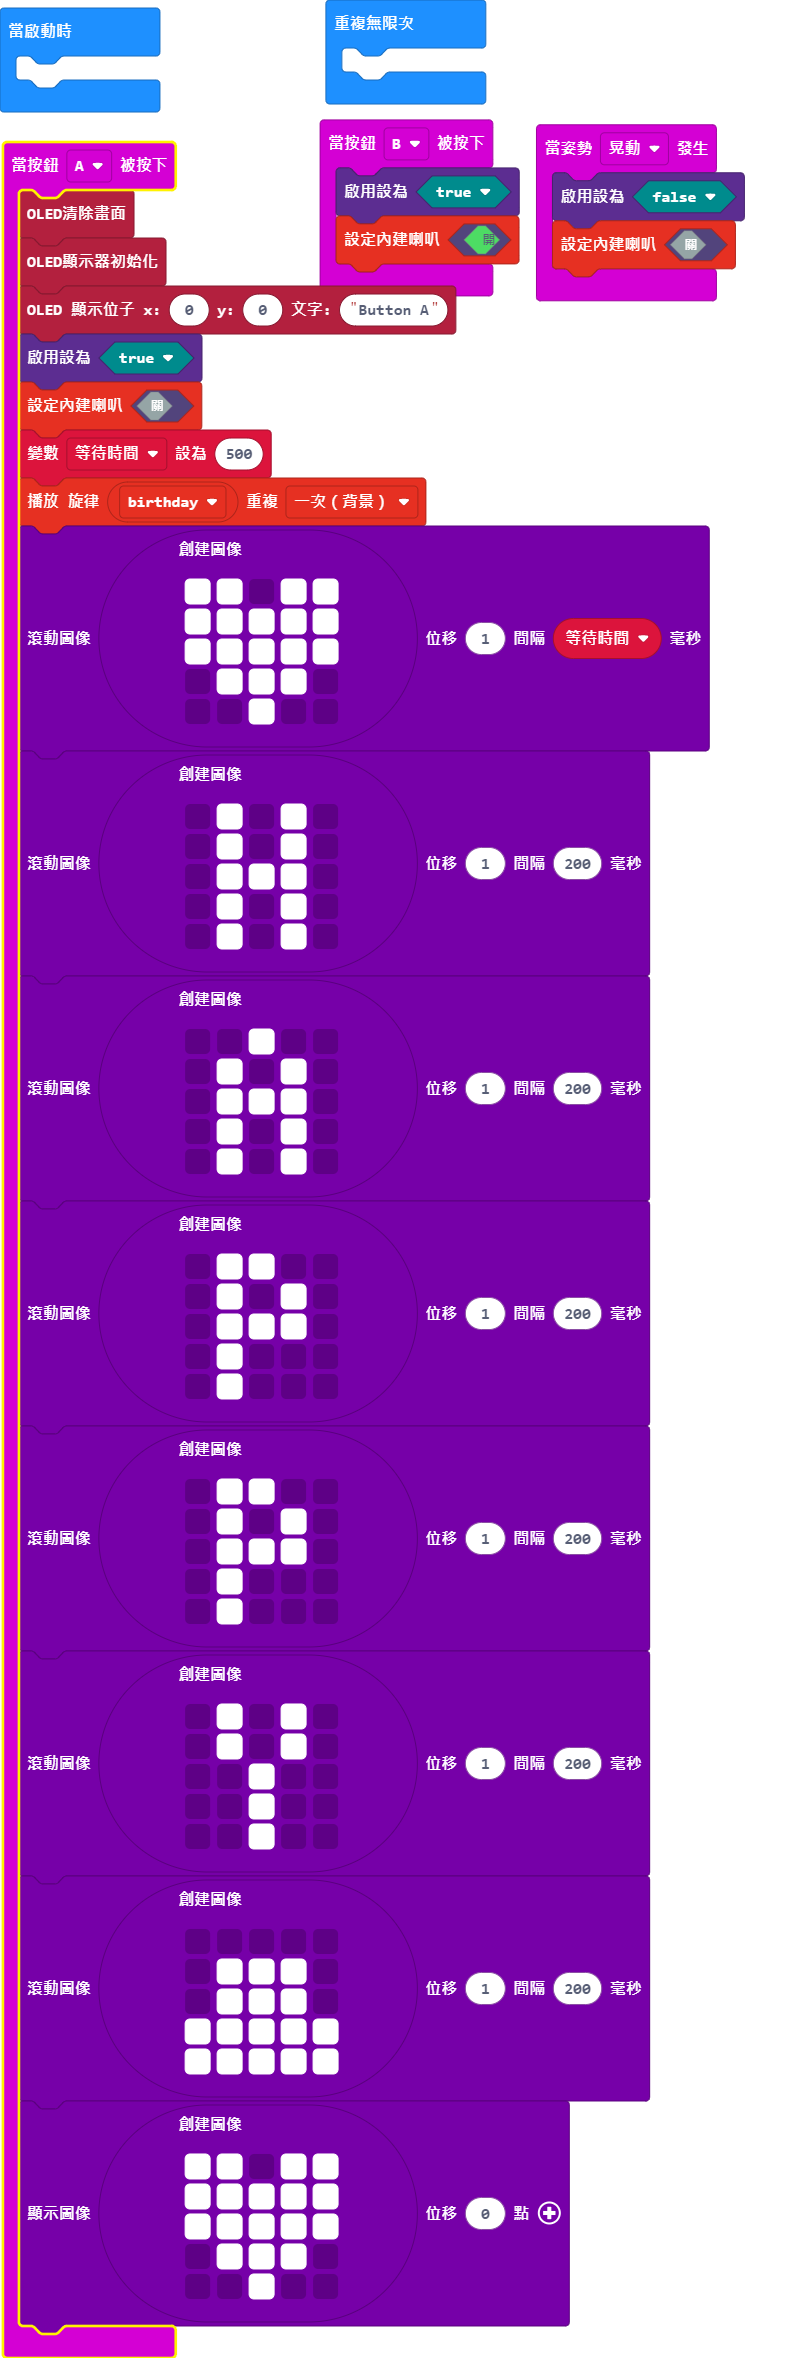
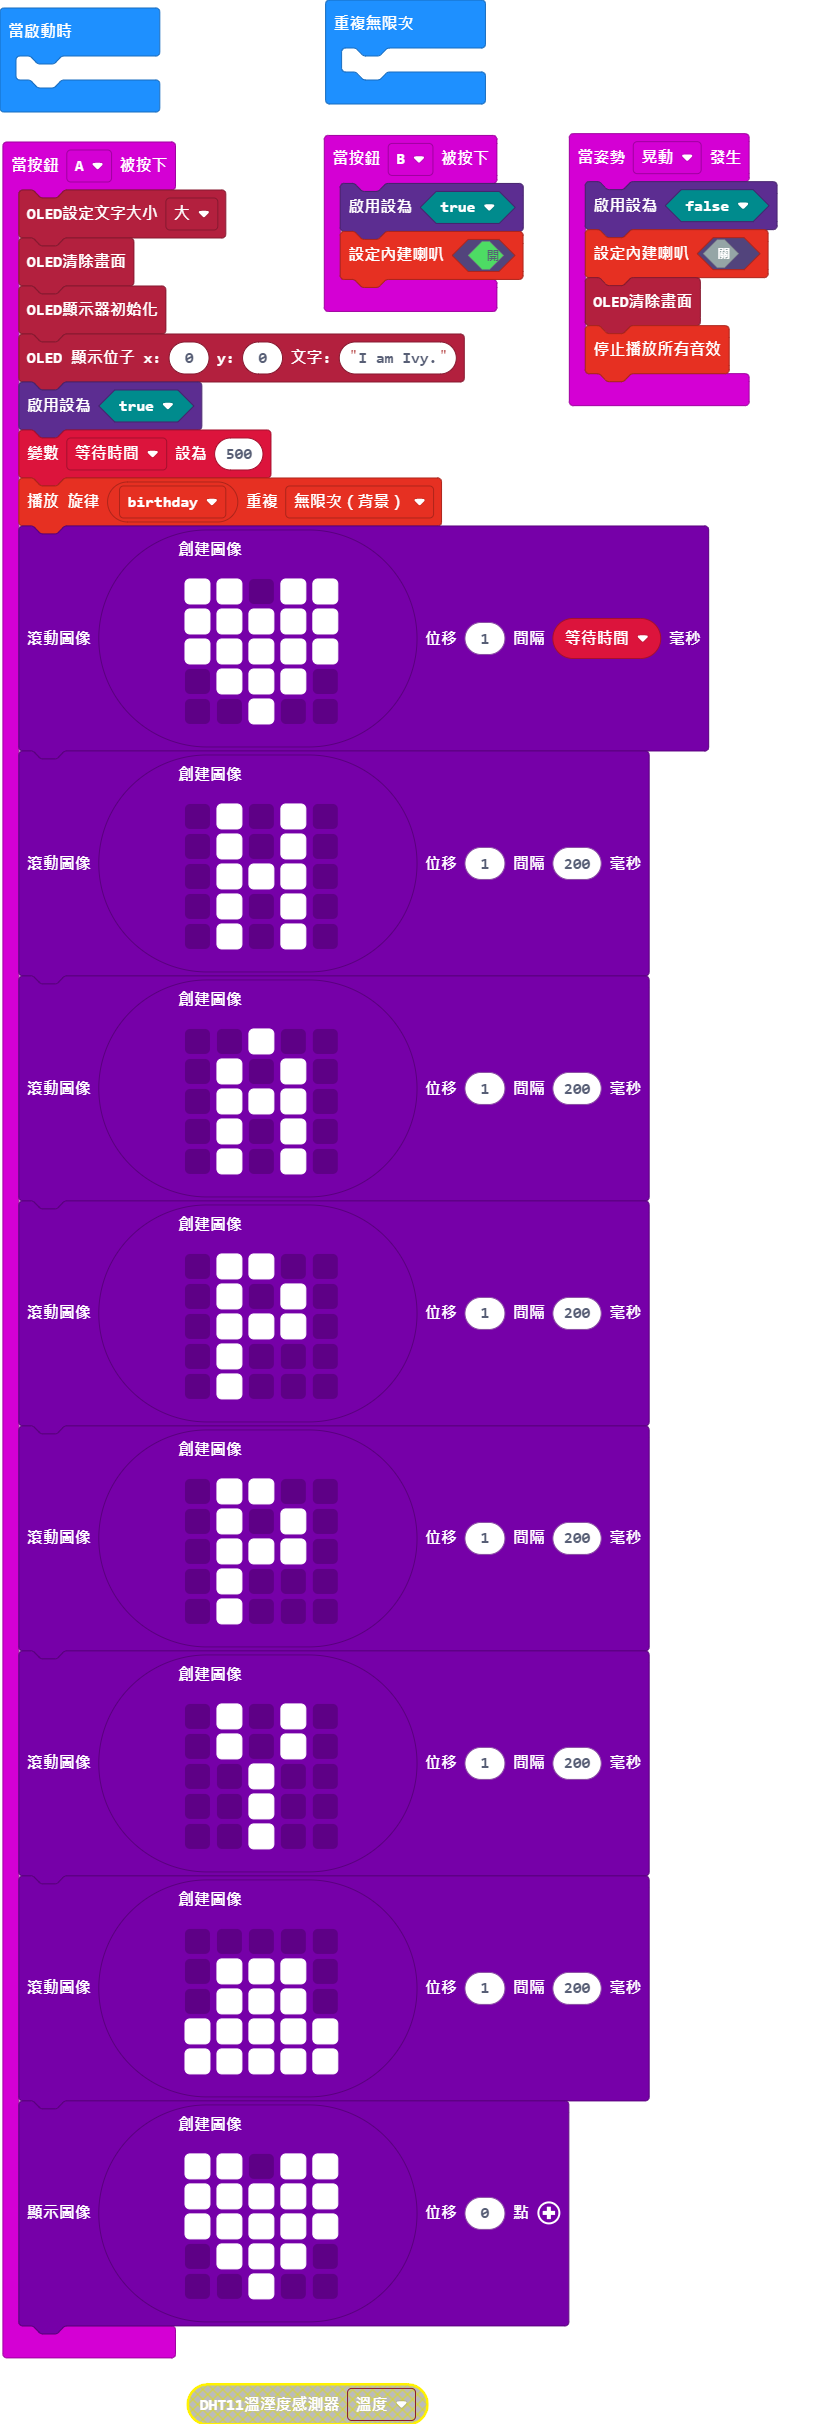
更新 main.blocks, main.ts

Changed region(s): [[0.0, 0.0, 0.9347, 1.0]]

diff --git a/main.ts b/main.ts
@@ -1,12 +1,12 @@
 let 等待時間 = 0
 input.onButtonPressed(Button.A, function () {
+    ezstartkit.oled_font_size(ezstartkit.OLED_Size.size1)
     ezstartkit.oled_clear()
     ezstartkit.oled_init()
-    ezstartkit.oled_showString(0, 0, "Button A")
+    ezstartkit.oled_showString(0, 0, "I am Ivy.")
     led.enable(true)
-    music.setBuiltInSpeakerEnabled(false)
     等待時間 = 500
-    music.startMelody(music.builtInMelody(Melodies.Birthday), MelodyOptions.OnceInBackground)
+    music.startMelody(music.builtInMelody(Melodies.Birthday), MelodyOptions.ForeverInBackground)
     images.createImage(`
         # # . # #
         # # # # #
@@ -67,6 +67,8 @@ input.onButtonPressed(Button.A, function () {
 input.onGesture(Gesture.Shake, function () {
     led.enable(false)
     music.setBuiltInSpeakerEnabled(false)
+    ezstartkit.oled_clear()
+    music.stopAllSounds()
 })
 input.onButtonPressed(Button.B, function () {
     led.enable(true)
